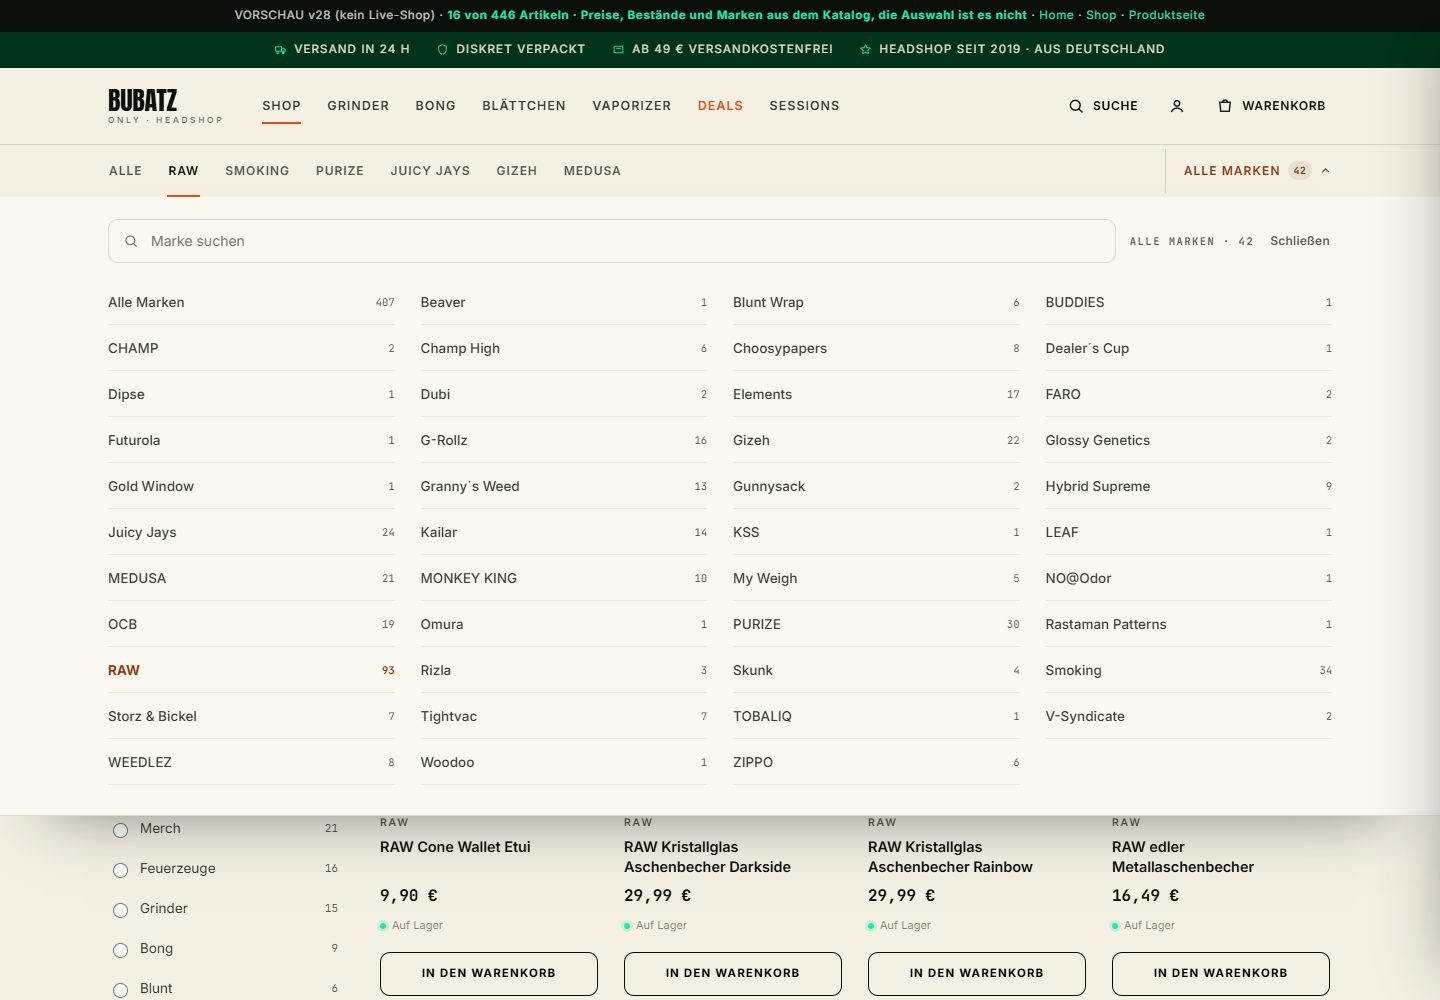
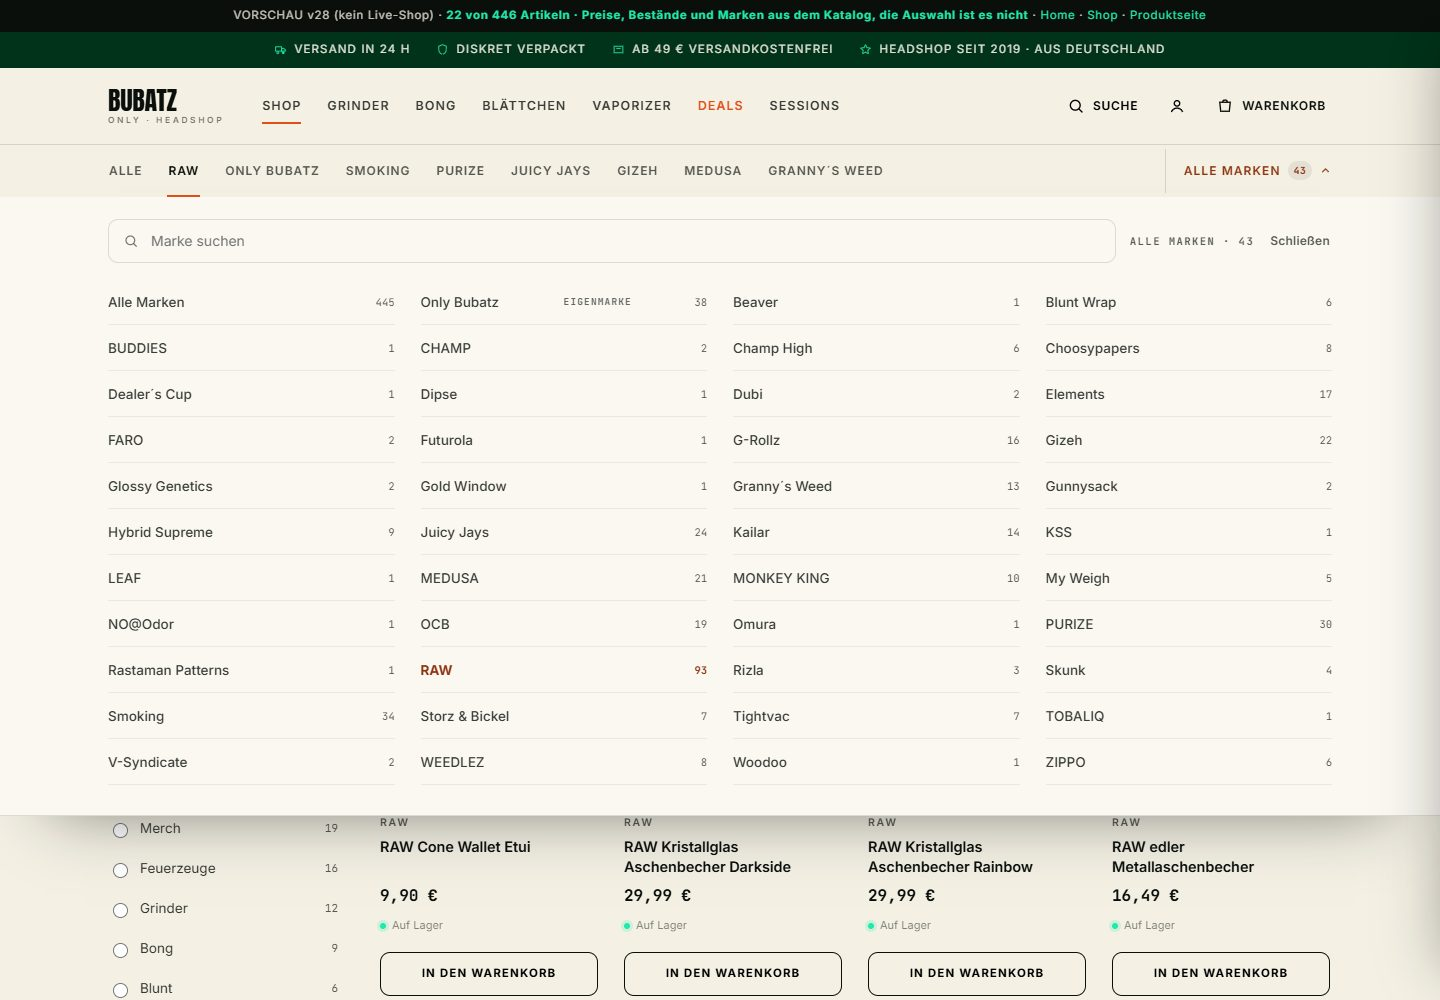
v28: 22 Karten (16 + medias 6 neue Kacheln inkl. Grinder und Bong), Kategorien nach Katalog (Blattchen 7 Stash 4 Merch 3 Grinder 3 Bong 3 Filter&Tips 2), 9 Marken-Tabs inkl. Eigenmarke, 7 Chips ohne Sonstiges, Bongs mit vendor Only Bubatz, Copy: Empfohlen / x von 22 Artikeln / zwei Leerzustaende

diff --git a/v28/shop.html b/v28/shop.html
@@ -16,7 +16,7 @@
   <link rel="stylesheet" href="v28.css">
 </head>
 <body>
-<div class="previewflag">VORSCHAU v28 (kein Live-Shop) &#183; <b>16 von 446 Artikeln &#183; Preise, Best&#228;nde und Marken aus dem Katalog, die Auswahl ist es nicht</b> &#183; <a href="index.html" style="color:#1fe9ab">Home</a> &#183; <a href="shop.html" style="color:#1fe9ab">Shop</a> &#183; <a href="produkt.html" style="color:#1fe9ab">Produktseite</a></div>
+<div class="previewflag">VORSCHAU v28 (kein Live-Shop) &#183; <b>22 von 446 Artikeln &#183; Preise, Best&#228;nde und Marken aus dem Katalog, die Auswahl ist es nicht</b> &#183; <a href="index.html" style="color:#1fe9ab">Home</a> &#183; <a href="shop.html" style="color:#1fe9ab">Shop</a> &#183; <a href="produkt.html" style="color:#1fe9ab">Produktseite</a></div>
 
 <div class="topbar"><div class="wrap">
   <span><svg viewBox="0 0 24 24" fill="none" stroke-width="1.8"><path d="M3 7h11v8H3zM14 10h4l3 3v2h-7z"/><circle cx="7" cy="18" r="1.6"/><circle cx="17" cy="18" r="1.6"/></svg> Versand in 24 h</span>
@@ -46,14 +46,16 @@
     <div class="bbstrip" id="bbstrip" role="tablist" aria-label="Nach Marke filtern">
         <a class="brandtab on" href="#" role="tab" data-brand="" data-count="407">Alle</a>
         <a class="brandtab" href="#" role="tab" data-brand="RAW" data-count="93">RAW</a>
+        <a class="brandtab" href="#" role="tab" data-brand="Only Bubatz" data-count="38">Only Bubatz</a>
         <a class="brandtab" href="#" role="tab" data-brand="Smoking" data-count="34">Smoking</a>
         <a class="brandtab" href="#" role="tab" data-brand="PURIZE" data-count="30">PURIZE</a>
         <a class="brandtab" href="#" role="tab" data-brand="Juicy Jays" data-count="24">Juicy Jays</a>
         <a class="brandtab" href="#" role="tab" data-brand="Gizeh" data-count="22">Gizeh</a>
         <a class="brandtab" href="#" role="tab" data-brand="MEDUSA" data-count="21">MEDUSA</a>
+        <a class="brandtab" href="#" role="tab" data-brand="Granny´s Weed" data-count="13">Granny´s Weed</a>
     </div>
     <button class="bbmore" id="bbmore" type="button" aria-expanded="false" aria-controls="brandpanel">
-      <span class="lbl">Alle Marken</span><span class="lbl-m">Marken</span><em class="bbcount">42</em>
+      <span class="lbl">Alle Marken</span><span class="lbl-m">Marken</span><em class="bbcount">43</em>
       <svg viewBox="0 0 24 24" aria-hidden="true"><path d="M6 9l6 6 6-6"/></svg>
     </button>
   </div>
@@ -62,11 +64,12 @@
       <div class="bphead">
         <label class="bpsearch"><svg viewBox="0 0 24 24" aria-hidden="true"><circle cx="11" cy="11" r="6.5"/><path d="M16 16l4.5 4.5"/></svg>
           <input id="bbsearch" type="search" placeholder="Marke suchen" aria-label="Marke suchen"></label>
-        <span class="bpmeta">Alle Marken &#183; 42</span>
+        <span class="bpmeta">Alle Marken &#183; 43</span>
         <button class="bpclose" type="button" data-bpclose>Schlie&#223;en</button>
       </div>
       <div class="bpgrid" id="bpgrid">
-          <button type="button" class="bpitem" data-brand="" data-count="407">Alle Marken<span>407</span></button>
+          <button type="button" class="bpitem" data-brand="" data-count="445">Alle Marken<span>445</span></button>
+          <button type="button" class="bpitem" data-brand="Only Bubatz" data-count="38">Only Bubatz <em class="bptag">Eigenmarke</em><span>38</span></button>
           <button type="button" class="bpitem" data-brand="Beaver" data-count="1">Beaver<span>1</span></button>
           <button type="button" class="bpitem" data-brand="Blunt Wrap" data-count="6">Blunt Wrap<span>6</span></button>
           <button type="button" class="bpitem" data-brand="BUDDIES" data-count="1">BUDDIES<span>1</span></button>
@@ -118,37 +121,38 @@
   <div class="crumbs"><a href="index.html">Home</a> · Shop</div>
   <div class="shophead">
     <div><div class="eyebrow">446 Produkte</div><h1>Alle Produkte</h1>
-      <p>Sortiert nach Relevanz. Bestände und Preise aus dem Shopify-Katalog, Versand noch heute bei Bestellung vor 15 Uhr.</p></div>
+      <p>Empfohlen für dich. Bestände und Preise aus dem Shopify-Katalog, Versand noch heute bei Bestellung vor 15 Uhr.</p></div>
   </div>
-  <div class="fstatus" id="fstatus"><span class="fcount"><b id="fcount">16</b> von 16 Produkten</span><span class="fpills" id="fpills"></span><button class="freset" id="freset" type="button" hidden>Filter zurücksetzen</button></div>
-  <div class="shopbar" id="shopbar"><div class="chipstrip"><a class="chip on" href="#" data-cat="" aria-pressed="true">Alle</a><a class="chip" href="#" data-cat="Blättchen" aria-pressed="false">Blättchen</a><a class="chip" href="#" data-cat="Sonstiges" aria-pressed="false">Sonstiges</a><a class="chip" href="#" data-cat="Stash" aria-pressed="false">Stash</a><a class="chip" href="#" data-cat="Filter &amp; Tips" aria-pressed="false">Filter &amp; Tips</a></div><div class="sort">Sortieren:
-    <select id="fsort"><option value="pop">Beliebteste</option><option value="asc">Preis aufsteigend</option><option value="desc">Preis absteigend</option><option value="new">Neuheiten</option></select>
+  <div class="fstatus" id="fstatus"><span class="fcount"><b id="fcount">22</b> von 22 Artikeln</span><span class="fpills" id="fpills"></span><button class="freset" id="freset" type="button" hidden>Filter zurücksetzen</button></div>
+  <div class="shopbar" id="shopbar"><div class="chipstrip"><a class="chip on" href="#" data-cat="" aria-pressed="true">Alle</a><a class="chip" href="#" data-cat="Blättchen" aria-pressed="false">Blättchen</a><a class="chip" href="#" data-cat="Stash" aria-pressed="false">Stash</a><a class="chip" href="#" data-cat="Bong" aria-pressed="false">Bong</a><a class="chip" href="#" data-cat="Grinder" aria-pressed="false">Grinder</a><a class="chip" href="#" data-cat="Merch" aria-pressed="false">Merch</a><a class="chip" href="#" data-cat="Filter &amp; Tips" aria-pressed="false">Filter &amp; Tips</a></div><div class="sort">Sortieren:
+    <select id="fsort"><option value="pop">Empfohlen</option><option value="asc">Preis aufsteigend</option><option value="desc">Preis absteigend</option><option value="new">Neuheiten</option></select>
   </div></div>
   <div class="shoplayout">
     <aside class="filters">
       <h4>Kategorie</h4>
       <label><input type="radio" name="fcat" value="" checked> Alle <span class="cnt">446</span></label>
-      <label><input type="radio" name="fcat" value="Blättchen"> Blättchen <span class="cnt">154</span></label>
-      <label><input type="radio" name="fcat" value="Filter &amp; Tips"> Filter &amp; Tips <span class="cnt">110</span></label>
-      <label><input type="radio" name="fcat" value="Stash"> Stash <span class="cnt">44</span></label>
-      <label><input type="radio" name="fcat" value="Drehzubehör"> Drehzubehör <span class="cnt">29</span></label>
-      <label><input type="radio" name="fcat" value="Merch"> Merch <span class="cnt">21</span></label>
+      <label><input type="radio" name="fcat" value="Blättchen"> Blättchen <span class="cnt">153</span></label>
+      <label><input type="radio" name="fcat" value="Filter & Tips"> Filter &amp; Tips <span class="cnt">113</span></label>
+      <label><input type="radio" name="fcat" value="Stash"> Stash <span class="cnt">42</span></label>
+      <label><input type="radio" name="fcat" value="Drehzubehör"> Drehzubehör <span class="cnt">28</span></label>
+      <label><input type="radio" name="fcat" value="Merch"> Merch <span class="cnt">19</span></label>
       <label><input type="radio" name="fcat" value="Feuerzeuge"> Feuerzeuge <span class="cnt">16</span></label>
-      <label><input type="radio" name="fcat" value="Grinder"> Grinder <span class="cnt">15</span></label>
+      <label><input type="radio" name="fcat" value="Grinder"> Grinder <span class="cnt">12</span></label>
       <label><input type="radio" name="fcat" value="Bong"> Bong <span class="cnt">9</span></label>
       <label><input type="radio" name="fcat" value="Blunt"> Blunt <span class="cnt">6</span></label>
-      <label><input type="radio" name="fcat" value="Vaporizer"> Vaporizer <span class="cnt">6</span></label>
-      <label><input type="radio" name="fcat" value="Sonstiges"> Sonstiges <span class="cnt">4</span></label>
+      <label><input type="radio" name="fcat" value="Sonstiges"> Sonstiges <span class="cnt">3</span></label>
       <label><input type="radio" name="fcat" value="Purpfeifen"> Purpfeifen <span class="cnt">3</span></label>
+      <label><input type="radio" name="fcat" value="Vaporizer"> Vaporizer <span class="cnt">3</span></label>
+      <label><input type="radio" name="fcat" value="Holzcover"> Holzcover <span class="cnt">2</span></label>
       <h4>Preis</h4>
       <div class="pricebox"><div class="row"><span>0 €</span><span>bis <b id="fpricelbl">alle</b></span></div><input type="range" id="fprice" min="2" max="70" step="1" value="70"></div>
       <h4>Marke</h4>
       <button class="marklink" id="marklink" type="button">Alle Marken wählen <svg viewBox="0 0 24 24"><path d="M9 6l6 6-6 6"/></svg></button>
-      <div class="marketnote"><b>Hinweis:</b> Marken-Leiste, Kategorien, Preis und Sortierung filtern in dieser Vorschau echt (Zahlen aus dem Katalog). Die Vorschau zeigt 16 von 446 Produkten.</div>
+      <div class="marketnote"><b>Hinweis:</b> Marken-Leiste, Kategorien, Preis und Sortierung filtern in dieser Vorschau echt (Zahlen aus dem Katalog). Die Vorschau zeigt 22 von 446 Produkten.</div>
     </aside>
     <div>
       <div class="pgrid">
-      <article class="card" data-brand="RAW" data-cat="Sonstiges" data-i="1" data-price="9.90" data-stock="11">
+      <article class="card" data-brand="RAW" data-cat="Stash" data-i="1" data-price="9.90" data-stock="11">
         <div class="ph">
           <button class="wish" aria-label="Merken"><svg viewBox="0 0 24 24" fill="none" stroke="currentColor" stroke-width="1.8"><path d="M12 20s-7-4.4-7-9.4A4.1 4.1 0 0 1 12 7a4.1 4.1 0 0 1 7 3.6c0 5-7 9.4-7 9.4z"/></svg></button>
           <img src="img/norm/demo-acc-049.jpg" alt="RAW Cone Wallet Etui" loading="lazy" width="400" height="400">
@@ -161,7 +165,7 @@
           <button class="add">In den Warenkorb</button>
         </div>
       </article>
-      <article class="card" data-brand="RAW" data-cat="Sonstiges" data-i="2" data-price="29.99" data-stock="36">
+      <article class="card" data-brand="RAW" data-cat="Merch" data-i="2" data-price="29.99" data-stock="36">
         <div class="ph">
           <button class="wish" aria-label="Merken"><svg viewBox="0 0 24 24" fill="none" stroke="currentColor" stroke-width="1.8"><path d="M12 20s-7-4.4-7-9.4A4.1 4.1 0 0 1 12 7a4.1 4.1 0 0 1 7 3.6c0 5-7 9.4-7 9.4z"/></svg></button>
           <img src="img/norm/demo-zig-d-128-2.jpg" alt="RAW Kristallglas Aschenbecher Darkside" loading="lazy" width="400" height="400">
@@ -174,7 +178,7 @@
           <button class="add">In den Warenkorb</button>
         </div>
       </article>
-      <article class="card" data-brand="RAW" data-cat="Sonstiges" data-i="3" data-price="29.99" data-stock="36">
+      <article class="card" data-brand="RAW" data-cat="Merch" data-i="3" data-price="29.99" data-stock="36">
         <div class="ph">
           <button class="wish" aria-label="Merken"><svg viewBox="0 0 24 24" fill="none" stroke="currentColor" stroke-width="1.8"><path d="M12 20s-7-4.4-7-9.4A4.1 4.1 0 0 1 12 7a4.1 4.1 0 0 1 7 3.6c0 5-7 9.4-7 9.4z"/></svg></button>
           <img src="img/norm/demo-as-119-rw.jpg" alt="RAW Kristallglas Aschenbecher Rainbow" loading="lazy" width="400" height="400">
@@ -187,7 +191,7 @@
           <button class="add">In den Warenkorb</button>
         </div>
       </article>
-      <article class="card" data-brand="RAW" data-cat="Sonstiges" data-i="4" data-price="16.49" data-stock="18">
+      <article class="card" data-brand="RAW" data-cat="Merch" data-i="4" data-price="16.49" data-stock="18">
         <div class="ph">
           <button class="wish" aria-label="Merken"><svg viewBox="0 0 24 24" fill="none" stroke="currentColor" stroke-width="1.8"><path d="M12 20s-7-4.4-7-9.4A4.1 4.1 0 0 1 12 7a4.1 4.1 0 0 1 7 3.6c0 5-7 9.4-7 9.4z"/></svg></button>
           <img src="img/norm/demo-as-120.jpg" alt="RAW edler Metallaschenbecher" loading="lazy" width="400" height="400">
@@ -356,9 +360,87 @@
           <button class="add">In den Warenkorb</button>
         </div>
       </article>
+      <article class="card" data-brand="Only Bubatz" data-cat="Grinder" data-i="17" data-price="9.99" data-stock="46">
+        <div class="ph">
+          <button class="wish" aria-label="Merken"><svg viewBox="0 0 24 24" fill="none" stroke="currentColor" stroke-width="1.8"><path d="M12 20s-7-4.4-7-9.4A4.1 4.1 0 0 1 12 7a4.1 4.1 0 0 1 7 3.6c0 5-7 9.4-7 9.4z"/></svg></button>
+          <img src="img/norm/demo-gri-ob.jpg" alt="Only Bubatz CNC Aluminium Mühle / Grinder 4-teilig" loading="lazy" width="400" height="400">
+        </div>
+        <div class="body">
+          <div class="brandline">ONLY BUBATZ</div>
+          <h3>Only Bubatz CNC Aluminium Mühle / Grinder 4-teilig</h3>
+          <div class="pricerow"><b>9,99 €</b></div>
+          <div class="stock"><i class="dot"></i>Auf Lager</div>
+          <button class="add">In den Warenkorb</button>
+        </div>
+      </article>
+      <article class="card" data-brand="RAW" data-cat="Grinder" data-i="18" data-price="19.90" data-stock="8">
+        <div class="ph">
+          <button class="wish" aria-label="Merken"><svg viewBox="0 0 24 24" fill="none" stroke="currentColor" stroke-width="1.8"><path d="M12 20s-7-4.4-7-9.4A4.1 4.1 0 0 1 12 7a4.1 4.1 0 0 1 7 3.6c0 5-7 9.4-7 9.4z"/></svg></button>
+          <img src="img/norm/demo-poli-201.jpg" alt="RAW CNC Aluminium Mühle/Grinder Polinator" loading="lazy" width="400" height="400">
+        </div>
+        <div class="body">
+          <div class="brandline">RAW</div>
+          <h3>RAW CNC Aluminium Mühle/Grinder Polinator</h3>
+          <div class="pricerow"><b>19,90 €</b></div>
+          <div class="stock"><i class="dot"></i>Auf Lager</div>
+          <button class="add">In den Warenkorb</button>
+        </div>
+      </article>
+      <article class="card" data-brand="Granny´s Weed" data-cat="Grinder" data-i="19" data-price="14.99" data-stock="25">
+        <div class="ph">
+          <button class="wish" aria-label="Merken"><svg viewBox="0 0 24 24" fill="none" stroke="currentColor" stroke-width="1.8"><path d="M12 20s-7-4.4-7-9.4A4.1 4.1 0 0 1 12 7a4.1 4.1 0 0 1 7 3.6c0 5-7 9.4-7 9.4z"/></svg></button>
+          <img src="img/norm/demo-poli-325.jpg" alt="Granny´s Weed CNC Aluminium Grinder/Pollinator, ø 60mm" loading="lazy" width="400" height="400">
+        </div>
+        <div class="body">
+          <div class="brandline">GRANNY´S WEED</div>
+          <h3>Granny´s Weed CNC Aluminium Grinder/Pollinator, ø 60mm</h3>
+          <div class="pricerow"><b>14,99 €</b></div>
+          <div class="stock"><i class="dot"></i>Auf Lager</div>
+          <button class="add">In den Warenkorb</button>
+        </div>
+      </article>
+      <article class="card" data-brand="Only Bubatz" data-cat="Bong" data-i="20" data-price="9.95" data-stock="10">
+        <div class="ph">
+          <button class="wish" aria-label="Merken"><svg viewBox="0 0 24 24" fill="none" stroke="currentColor" stroke-width="1.8"><path d="M12 20s-7-4.4-7-9.4A4.1 4.1 0 0 1 12 7a4.1 4.1 0 0 1 7 3.6c0 5-7 9.4-7 9.4z"/></svg></button>
+          <img src="img/norm/demo-acryl-mini-bong-bubble-straight-leaf-ab-20105.jpg" alt="Acryl Mini Bong Bubble Straight '' LEAF''" loading="lazy" width="400" height="400">
+        </div>
+        <div class="body">
+          <div class="brandline">ONLY BUBATZ</div>
+          <h3>Acryl Mini Bong Bubble Straight '' LEAF''</h3>
+          <div class="pricerow"><b>9,95 €</b></div>
+          <div class="stock"><i class="dot"></i>Auf Lager</div>
+          <button class="add">In den Warenkorb</button>
+        </div>
+      </article>
+      <article class="card" data-brand="Only Bubatz" data-cat="Bong" data-i="21" data-price="17.95" data-stock="8">
+        <div class="ph">
+          <button class="wish" aria-label="Merken"><svg viewBox="0 0 24 24" fill="none" stroke="currentColor" stroke-width="1.8"><path d="M12 20s-7-4.4-7-9.4A4.1 4.1 0 0 1 12 7a4.1 4.1 0 0 1 7 3.6c0 5-7 9.4-7 9.4z"/></svg></button>
+          <img src="img/norm/demo-acryl-bong-beaker-ice-flowers-30cm-farbig-sortiert-ab-1283.jpg" alt="Acryl Bong Beaker Ice - &quot;Flowers&quot;, 30cm" loading="lazy" width="400" height="400">
+        </div>
+        <div class="body">
+          <div class="brandline">ONLY BUBATZ</div>
+          <h3>Acryl Bong Beaker Ice - &quot;Flowers&quot;, 30cm</h3>
+          <div class="pricerow"><b>17,95 €</b></div>
+          <div class="stock"><i class="dot"></i>Auf Lager</div>
+          <button class="add">In den Warenkorb</button>
+        </div>
+      </article>
+      <article class="card" data-brand="Only Bubatz" data-cat="Bong" data-i="22" data-price="3.95" data-stock="10">
+        <div class="ph">
+          <button class="wish" aria-label="Merken"><svg viewBox="0 0 24 24" fill="none" stroke="currentColor" stroke-width="1.8"><path d="M12 20s-7-4.4-7-9.4A4.1 4.1 0 0 1 12 7a4.1 4.1 0 0 1 7 3.6c0 5-7 9.4-7 9.4z"/></svg></button>
+          <img src="img/norm/demo-acryl-mini-bong-straight-rastaman-ab-20003.jpg" alt="Acryl Mini Bong Straight &quot;Rastaman&quot;" loading="lazy" width="400" height="400">
+        </div>
+        <div class="body">
+          <div class="brandline">ONLY BUBATZ</div>
+          <h3>Acryl Mini Bong Straight &quot;Rastaman&quot;</h3>
+          <div class="pricerow"><b>3,95 €</b></div>
+          <div class="stock"><i class="dot"></i>Auf Lager</div>
+          <button class="add">In den Warenkorb</button>
+        </div>
+      </article>
       </div>
-      <div class="bbempty" id="bbempty" hidden><b>Keine Treffer</b><p>Diese Kombination gibt es in der Vorschau nicht. Sie zeigt 16 der 446 Artikel aus dem Katalog.</p><button type="button" data-reset>Filter zur&#252;cksetzen</button></div>
-      <div style="display:flex;justify-content:center;margin-top:44px"><a class="btn btn-ghost" href="#">Mehr laden (430)</a></div>
+      <div class="bbempty" id="bbempty" hidden><b>Keine Treffer</b><p>Diese Kombination gibt es in dieser Vorschau nicht.</p><button type="button" data-reset>Filter zur&#252;cksetzen</button></div>
+      <div style="display:flex;justify-content:center;margin-top:44px"><a class="btn btn-ghost" href="#">Mehr laden (424)</a></div>
     </div>
   </div>
 </div>

diff --git a/v28/shopfilter.js b/v28/shopfilter.js
@@ -51,7 +51,20 @@
 
     // Zähler + Leerzustand
     if (count) count.textContent = shown;
-    if (empty) empty.hidden = shown !== 0;
+    if (empty) {
+      empty.hidden = shown !== 0;
+      /* v28: zwei Leerfaelle — Marke allein nennt die Katalogzahl, Kombination nennt die Kombination */
+      if (!shown) {
+        var akt = document.querySelector('.brandtab[data-brand="' + CSS.escape(state.brand || '') + '"]');
+        var bcnt = akt ? parseInt(akt.dataset.count || '0', 10) : 0;
+        var nurMarke = state.brand && !state.cat && p >= PMAX;
+        var kombi = [state.brand, state.cat].filter(Boolean).join(' + ');
+        empty.querySelector('b').textContent = nurMarke ? 'Keine ' + state.brand + '-Artikel in dieser Vorschau' : 'Keine Treffer';
+        empty.querySelector('p').textContent = nurMarke
+          ? 'Im Sortiment sind ' + bcnt + '.'
+          : kombi + ' gibt es in dieser Vorschau nicht.' + (state.brand && bcnt ? ' Im Sortiment sind ' + bcnt + ' ' + state.brand + '-Artikel.' : '');
+      }
+    }
 
     // Marken-Tabs / Panel
     tabs.forEach(t => t.classList.toggle('on', key(t.dataset.brand) === b));

diff --git a/v28/v28.css b/v28/v28.css
@@ -83,3 +83,9 @@
   .bpmeta{display:none}
   .fstatus{min-height:0}
 }
+
+/* Eigenmarke im Panel: als solche gekennzeichnet, damit 42 Katalogmarken + 1 lesbar bleiben */
+.bptag{
+  font-family:var(--mono);font-style:normal;font-size:9.5px;font-weight:700;letter-spacing:.12em;
+  text-transform:uppercase;color:rgba(10,15,11,.62);margin-left:2px;
+}
